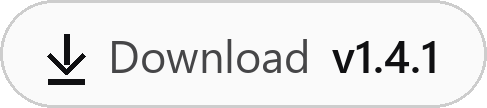
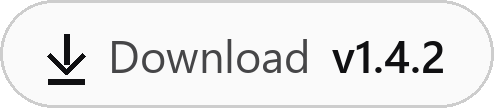
Release PlayBridge 1.4.2: optional FSR 1 upscaling
Settings > Picture has a new switch, FSR 1 upscaling, off by default.
When the screen is larger than the stream, the Direct3D 11 output
enlarges the picture with AMD FidelityFX Super Resolution 1 (EASU),
and Sharpen picture uses its sharpening (RCAS). At the same size or
smaller the output is unchanged. AMD's code is under the MIT license,
included in third-party-licenses/amd-fsr1.

Changed region(s): [[0.2156, 0.3611, 0.924, 0.6944], [0.0924, 0.3333, 0.1848, 0.6944], [0.154, 0.75, 0.1848, 0.7778]]

diff --git a/app/d3d11_presenter.py b/app/d3d11_presenter.py
@@ -31,7 +31,7 @@ class SamplerDesc(Structure):_fields_=[('Filter',UINT),('AddressU',UINT),('Addre
 class Mapped(Structure):_fields_=[('Data',c_void_p),('RowPitch',UINT),('DepthPitch',UINT)]
 class Viewport(Structure):_fields_=[('X',c_float),('Y',c_float),('Width',c_float),('Height',c_float),('MinDepth',c_float),('MaxDepth',c_float)]
 
-BGRA8=87;R8=61;R8G8=49;NV12=103;P010=104;R16=56;R16G16=35
+BGRA8=87;R8=61;R8G8=49;NV12=103;P010=104;R16=56;R16G16=35;RGB10=24
 USAGE_DEFAULT=0;USAGE_DYNAMIC=2;USAGE_STAGING=3
 BIND_CONSTANT=4;BIND_SHADER=8;BIND_TARGET=0x20
 CPU_WRITE=0x10000;CPU_READ=0x20000;MAP_READ=1;MAP_DISCARD=4
@@ -44,6 +44,8 @@ VIEWS={NV12:(R8,R8G8),P010:(R16,R16G16)}
 PLANES={'yuv420p':((R8,1),(R8,2),(R8,2)),'yuvj420p':((R8,1),(R8,2),(R8,2)),'nv12':((R8,1),(R8G8,2))}
 CUBIC,BOX=0,1
 BLACK=(c_float*4)(0,0,0,1)
+# RCAS in stops below its strongest. 0.2 gives it about the strength of the sharpening after bicubic.
+RCAS_STOPS=.2
 
 SHADERS=b"""
 cbuffer Picture:register(b0){float2 size;float2 ratio;float4 rows[3];int luma_filter;int chroma_filter;int interleaved;int unused;};
@@ -84,6 +86,60 @@ float4 sharpen(Pixel p):SV_Target{
  float3 low=min(c,min(n,min(s,min(w,e)))),high=max(c,max(n,max(s,max(w,e))));float3 amount=sqrt(saturate(min(low,1-high)/max(high,.0001)))*-.16;
  return float4(saturate((c+(n+s+w+e)*amount)/(1+4*amount)),1);
 }
+// The colours at the picture's own size, for FSR to enlarge.
+float4 rgb(Pixel p):SV_Target{
+ float2 c=p.at.xy,cc=c/2;float2 d;blue.GetDimensions(d.x,d.y);float y=luma.Load(int3(c,0)).r,u,v;
+ if(interleaved){float2 uv=blue.SampleLevel(smooth,cc/d,0).rg;u=uv.r;v=uv.g;}
+ else{u=blue.SampleLevel(smooth,cc/d,0).r;v=red.SampleLevel(smooth,cc/d,0).r;}
+ float4 pixel=float4(y,u,v,1);return float4(saturate(float3(dot(rows[0],pixel),dot(rows[1],pixel),dot(rows[2],pixel))),1);
+}
+// AMD FidelityFX Super Resolution 1, the 32-bit EASU and RCAS of ffx_fsr1.h v1.20210629.
+// Copyright (c) 2021 Advanced Micro Devices, Inc. MIT licence, in THIRD-PARTY-NOTICES.md.
+cbuffer Scaler:register(b1){float4 con0;float4 con1;float4 con2;float4 con3;float2 origin;float sharpness;float spare;};
+float rcp_low(float a){return asfloat(0x7ef07ebbu-asuint(a));}
+float rcp_medium(float a){float b=asfloat(0x7ef19fffu-asuint(a));return b*(-b*a+2);}
+float rsq_low(float a){return asfloat(0x5f347d74u-(asuint(a)>>1));}
+void easu_tap(inout float3 sum,inout float total,float2 off,float2 dir,float2 len,float lob,float clp,float3 c){
+ float2 v=float2(off.x*dir.x+off.y*dir.y,off.x*-dir.y+off.y*dir.x)*len;float d2=min(v.x*v.x+v.y*v.y,clp);
+ float wb=2./5*d2-1,wa=lob*d2-1;wb*=wb;wa*=wa;wb=25./16*wb-(25./16-1);float w=wb*wa;sum+=c*w;total+=w;
+}
+void easu_set(inout float2 dir,inout float len,float w,float a,float b,float c,float d,float e){
+ float across=rcp_low(max(abs(d-c),abs(c-b))),dx=d-b;dir.x+=dx*w;across=saturate(abs(dx)*across);len+=across*across*w;
+ float down=rcp_low(max(abs(e-c),abs(c-a))),dy=e-a;dir.y+=dy*w;down=saturate(abs(dy)*down);len+=down*down*w;
+}
+// Edge adaptive enlarging, from the picture in luma to the pixel at the same place in the viewport.
+float4 easu(Pixel p):SV_Target{
+ float2 pp=float2(uint2(p.at.xy-origin))*con0.xy+con0.zw,fp=floor(pp);pp-=fp;
+ float2 p0=fp*con1.xy+con1.zw,p1=p0+con2.xy,p2=p0+con2.zw,p3=p0+con3.xy;
+ float4 bczzR=luma.GatherRed(smooth,p0),bczzG=luma.GatherGreen(smooth,p0),bczzB=luma.GatherBlue(smooth,p0);
+ float4 ijfeR=luma.GatherRed(smooth,p1),ijfeG=luma.GatherGreen(smooth,p1),ijfeB=luma.GatherBlue(smooth,p1);
+ float4 klhgR=luma.GatherRed(smooth,p2),klhgG=luma.GatherGreen(smooth,p2),klhgB=luma.GatherBlue(smooth,p2);
+ float4 zzonR=luma.GatherRed(smooth,p3),zzonG=luma.GatherGreen(smooth,p3),zzonB=luma.GatherBlue(smooth,p3);
+ float4 bczzL=bczzB*.5+(bczzR*.5+bczzG),ijfeL=ijfeB*.5+(ijfeR*.5+ijfeG),klhgL=klhgB*.5+(klhgR*.5+klhgG),zzonL=zzonB*.5+(zzonR*.5+zzonG);
+ float bL=bczzL.x,cL=bczzL.y,iL=ijfeL.x,jL=ijfeL.y,fL=ijfeL.z,eL=ijfeL.w,kL=klhgL.x,lL=klhgL.y,hL=klhgL.z,gL=klhgL.w,oL=zzonL.z,nL=zzonL.w;
+ float2 dir=0;float len=0;
+ easu_set(dir,len,(1-pp.x)*(1-pp.y),bL,eL,fL,gL,jL);easu_set(dir,len,pp.x*(1-pp.y),cL,fL,gL,hL,kL);
+ easu_set(dir,len,(1-pp.x)*pp.y,fL,iL,jL,kL,nL);easu_set(dir,len,pp.x*pp.y,gL,jL,kL,lL,oL);
+ float2 dir2=dir*dir;float dirR=dir2.x+dir2.y;bool zro=dirR<1./32768;dirR=rsq_low(dirR);dirR=zro?1:dirR;dir.x=zro?1:dir.x;dir*=dirR;
+ len=len*.5;len*=len;float stretch=(dir.x*dir.x+dir.y*dir.y)*rcp_low(max(abs(dir.x),abs(dir.y)));
+ float2 len2=float2(1+(stretch-1)*len,1-.5*len);float lob=.5+((1./4-.04)-.5)*len,clp=rcp_low(lob);
+ float3 f=float3(ijfeR.z,ijfeG.z,ijfeB.z),g=float3(klhgR.w,klhgG.w,klhgB.w),j=float3(ijfeR.y,ijfeG.y,ijfeB.y),k=float3(klhgR.x,klhgG.x,klhgB.x);
+ float3 low=min(min(f,g),min(j,k)),high=max(max(f,g),max(j,k)),sum=0;float total=0;
+ easu_tap(sum,total,float2(0,-1)-pp,dir,len2,lob,clp,float3(bczzR.x,bczzG.x,bczzB.x));easu_tap(sum,total,float2(1,-1)-pp,dir,len2,lob,clp,float3(bczzR.y,bczzG.y,bczzB.y));
+ easu_tap(sum,total,float2(-1,1)-pp,dir,len2,lob,clp,float3(ijfeR.x,ijfeG.x,ijfeB.x));easu_tap(sum,total,float2(0,1)-pp,dir,len2,lob,clp,j);
+ easu_tap(sum,total,float2(0,0)-pp,dir,len2,lob,clp,f);easu_tap(sum,total,float2(-1,0)-pp,dir,len2,lob,clp,float3(ijfeR.w,ijfeG.w,ijfeB.w));
+ easu_tap(sum,total,float2(1,1)-pp,dir,len2,lob,clp,k);easu_tap(sum,total,float2(2,1)-pp,dir,len2,lob,clp,float3(klhgR.y,klhgG.y,klhgB.y));
+ easu_tap(sum,total,float2(2,0)-pp,dir,len2,lob,clp,float3(klhgR.z,klhgG.z,klhgB.z));easu_tap(sum,total,float2(1,0)-pp,dir,len2,lob,clp,g);
+ easu_tap(sum,total,float2(1,2)-pp,dir,len2,lob,clp,float3(zzonR.z,zzonG.z,zzonB.z));easu_tap(sum,total,float2(0,2)-pp,dir,len2,lob,clp,float3(zzonR.w,zzonG.w,zzonB.w));
+ return float4(min(high,max(low,sum/total)),1);
+}
+// Sharpening as strong as it can be before the cross of neighbours would clip.
+float4 rcas(Pixel p):SV_Target{
+ int3 at=int3(p.at.xy,0);float3 b=luma.Load(at,int2(0,-1)).rgb,d=luma.Load(at,int2(-1,0)).rgb,e=luma.Load(at).rgb,f=luma.Load(at,int2(1,0)).rgb,h=luma.Load(at,int2(0,1)).rgb;
+ float3 low=min(min(b,d),min(f,h)),high=max(max(b,d),max(f,h)),lobes=max(-(min(low,e)/(4*high)),(1-max(high,e))/(4*low-4));
+ float lobe=max(-(.25-1./16),min(max(lobes.r,max(lobes.g,lobes.b)),0))*sharpness;
+ return float4((lobe*(b+d+h+f)+e)*rcp_medium(4*lobe+1),1);
+}
 """
 
 def colour_rows(colorspace,full_range):
@@ -99,6 +155,13 @@ def fitted(width,height,window_width,window_height):
 def luma_filter(ratio):
  # From half size down the area filter keeps the most detail, as it does on the CPU in video_convert.
  return BOX if ratio>=1.999 else CUBIC
+def enlarged(ratio):
+ # FSR only enlarges. At one texel per pixel or smaller the usual filters stay.
+ return ratio<.999
+def easu_constants(width,height,shown_width,shown_height):
+ """AMD's FsrEasuCon for a picture that fills its texture: from a screen pixel to the picture, then the four gathers around it."""
+ across,down=width/shown_width,height/shown_height;x,y=1/width,1/height
+ return (across,down,.5*across-.5,.5*down-.5,x,y,x,-y,-x,2*y,x,2*y,0,4*y,0,0)
 def surface_of(frame):
  """A GPU frame's texture and its slice. The list of planes stops at a zero, and slice zero is one."""
  planes=frame.planes;return planes[0].buffer_ptr,planes[1].buffer_ptr if len(planes)>1 else 0
@@ -123,7 +186,7 @@ def compiled():
  compiler=ctypes.WinDLL('d3dcompiler_47');compile_source=compiler.D3DCompile;compile_source.restype=ctypes.HRESULT
  compile_source.argtypes=[c_char_p,c_size_t,c_char_p,c_void_p,c_void_p,c_char_p,c_char_p,UINT,UINT,OUT,OUT]
  blobs={}
- for name,target in ((b'vs',b'vs_5_0'),(b'ps',b'ps_5_0'),(b'sharpen',b'ps_5_0')):
+ for name,target in ((b'vs',b'vs_5_0'),(b'ps',b'ps_5_0'),(b'sharpen',b'ps_5_0'),(b'rgb',b'ps_5_0'),(b'easu',b'ps_5_0'),(b'rcas',b'ps_5_0')):
   code=c_void_p();errors=c_void_p()
   try:compile_source(SHADERS,len(SHADERS),None,None,None,name,target,1<<15,0,byref(code),byref(errors))
   except OSError as error:raise RuntimeError(ctypes.string_at(GetBlobPointer(errors.value),GetBlobSize(errors.value)).decode(errors='replace') if errors.value else str(error)) from error
@@ -135,24 +198,26 @@ def new_device():
 
 class D3D11Presenter:
  """Draws on the thread of the refresh clock. Only resizing and hiding involve the window's own thread, which never waits for this one."""
- def __init__(self,window,sharpen=False):
-  self.hwnd=window.winfo_id();self.frame=None;self.failed=None;self.failures=0;self.sharpen=sharpen;self.wanted=(max(1,window.winfo_width()),max(1,window.winfo_height()));self.pending=False
+ def __init__(self,window,sharpen=False,fsr=False):
+  self.hwnd=window.winfo_id();self.frame=None;self.failed=None;self.failures=0;self.sharpen=sharpen;self.fsr=fsr;self.wanted=(max(1,window.winfo_width()),max(1,window.winfo_height()));self.pending=False
   self.kernel=ctypes.WinDLL('kernel32');self.kernel.WaitForSingleObject.argtypes=[wintypes.HANDLE,wintypes.DWORD];self.kernel.WaitForSingleObject.restype=wintypes.DWORD
   # Both fail here, in the window's thread, where the app can still choose the other output.
   self.blobs=compiled();self.own=new_device();self.forget()
  def forget(self):
-  self.device=None;self.context=None;self.swap=None;self.target=None;self.back=None;self.scaled=None;self.scaled_view=None;self.size=None;self.waitable=None;self.owned=[];self.surface=None;self.surface_shape=None;self.planes=None;self.plane_shape=None;self.views=None;self.arranged=None;self.viewport=None
+  self.device=None;self.context=None;self.swap=None;self.target=None;self.back=None;self.scaled=None;self.scaled_view=None;self.size=None;self.waitable=None;self.owned=[];self.surface=None;self.surface_shape=None;self.planes=None;self.plane_shape=None;self.views=None;self.arranged=None;self.viewport=None;self.converted=None;self.converted_shape=None;self.enlarging=False
  def keep(self,pointer):
   self.owned.append(pointer.value);return pointer.value
  def attach(self,device):
   """Takes over a reference to the device. A new decoder brings a new device, and the swap chain has to live on the decoder's."""
   self.detach();self.device=device;context=c_void_p();GetImmediateContext(device,byref(context));self.context=context.value
   shader=c_void_p();CreateVertexShader(device,self.blobs[b'vs'],len(self.blobs[b'vs']),None,byref(shader));self.vertex_shader=self.keep(shader)
-  shader=c_void_p();CreatePixelShader(device,self.blobs[b'ps'],len(self.blobs[b'ps']),None,byref(shader));self.pixel_shader=self.keep(shader)
-  shader=c_void_p();CreatePixelShader(device,self.blobs[b'sharpen'],len(self.blobs[b'sharpen']),None,byref(shader));self.sharpen_shader=self.keep(shader)
+  self.shaders={}
+  for name in (b'ps',b'sharpen',b'rgb',b'easu',b'rcas'):shader=c_void_p();CreatePixelShader(device,self.blobs[name],len(self.blobs[name]),None,byref(shader));self.shaders[name]=self.keep(shader)
   sampler=c_void_p();CreateSamplerState(device,byref(SamplerDesc(Filter=FILTER_LINEAR,AddressU=ADDRESS_CLAMP,AddressV=ADDRESS_CLAMP,AddressW=ADDRESS_CLAMP,MaxLOD=1000)),byref(sampler));self.keep(sampler)
-  buffer=c_void_p();CreateBuffer(device,byref(BufferDesc(ByteWidth=96,Usage=USAGE_DYNAMIC,BindFlags=BIND_CONSTANT,CPUAccessFlags=CPU_WRITE)),None,byref(buffer));self.constants=self.keep(buffer)
-  VSSetShader(self.context,self.vertex_shader,None,0);PSSetSamplers(self.context,0,1,byref(sampler));PSSetConstantBuffers(self.context,0,1,byref(buffer));IASetPrimitiveTopology(self.context,TRIANGLES)
+  buffers=[]
+  for size in (96,80):buffer=c_void_p();CreateBuffer(device,byref(BufferDesc(ByteWidth=size,Usage=USAGE_DYNAMIC,BindFlags=BIND_CONSTANT,CPUAccessFlags=CPU_WRITE)),None,byref(buffer));buffers.append(self.keep(buffer))
+  self.constants,self.scaler=buffers
+  VSSetShader(self.context,self.vertex_shader,None,0);PSSetSamplers(self.context,0,1,byref(sampler));PSSetConstantBuffers(self.context,0,2,(c_void_p*2)(*buffers));IASetPrimitiveTopology(self.context,TRIANGLES)
  def detach(self):
   """A window takes one flip swap chain at a time, and the old one goes only once its device has been cleared and flushed."""
   if self.context:
@@ -161,6 +226,7 @@ class D3D11Presenter:
    if self.swap:Release(self.swap)
    if self.surface:self.release_surface()
    if self.planes:self.release_planes()
+   if self.converted:self.release_converted()
    Flush(self.context);Release(self.context)
   if self.device and self.device!=self.own:Release(self.device)
   self.forget()
@@ -222,13 +288,28 @@ class D3D11Presenter:
    else:
     for row in range(rows):ctypes.memmove(mapped.Data+row*mapped.RowPitch,source.buffer_ptr+row*source.line_size,min(source.line_size,mapped.RowPitch))
    Unmap(self.context,texture,0)
+ def release_converted(self):
+  for pointer in self.converted:Release(pointer)
+  self.converted=None;self.converted_shape=None
+ def convert_into(self,width,height):
+  """The texture FSR enlarges from, in RGB at the picture's own size."""
+  if self.converted_shape==(width,height):return
+  if self.converted:self.release_converted()
+  texture=c_void_p();shown=c_void_p();drawn=c_void_p()
+  CreateTexture2D(self.device,byref(Texture2DDesc(Width=width,Height=height,MipLevels=1,ArraySize=1,Format=RGB10,SampleCount=1,BindFlags=BIND_SHADER|BIND_TARGET)),None,byref(texture))
+  CreateRenderTargetView(self.device,texture.value,None,byref(drawn));CreateShaderResourceView(self.device,texture.value,None,byref(shown));Release(texture.value);self.converted=(shown.value,drawn.value);self.converted_shape=(width,height)
+ def fill(self,buffer,data):
+  mapped=Mapped();Map(self.context,buffer,0,MAP_DISCARD,0,byref(mapped));ctypes.memmove(mapped.Data,data,len(data));Unmap(self.context,buffer,0)
  def arrange(self,frame,interleaved):
   """Sets where the picture goes and how it is filtered, when any of that has changed."""
-  key=(frame.width,frame.height,frame.colorspace,frame.color_range,interleaved,self.size)
+  key=(frame.width,frame.height,frame.colorspace,frame.color_range,interleaved,self.size,self.fsr)
   if key==self.arranged:return
   x,y,width,height=fitted(frame.width,frame.height,*self.size);across=frame.width/width;down=frame.height/height;ratio=max(across,down);rows=colour_rows(frame.colorspace,frame.color_range==2)
-  data=struct.pack('<16f4i',frame.width,frame.height,across,down,*rows[0],*rows[1],*rows[2],luma_filter(ratio),int(ratio>2.001),int(interleaved),0)
-  mapped=Mapped();Map(self.context,self.constants,0,MAP_DISCARD,0,byref(mapped));ctypes.memmove(mapped.Data,data,len(data));Unmap(self.context,self.constants,0)
+  self.fill(self.constants,struct.pack('<16f4i',frame.width,frame.height,across,down,*rows[0],*rows[1],*rows[2],luma_filter(ratio),int(ratio>2.001),int(interleaved),0))
+  self.enlarging=self.fsr and enlarged(ratio)
+  if self.enlarging:
+   self.convert_into(frame.width,frame.height);self.source=Viewport(0,0,frame.width,frame.height,0,1)
+   self.fill(self.scaler,struct.pack('<20f',*easu_constants(frame.width,frame.height,width,height),x,y,2**-RCAS_STOPS,0))
   self.viewport=Viewport(x,y,width,height,0,1);self.whole=Viewport(0,0,self.size[0],self.size[1],0,1);self.arranged=key
  def show(self,frame):
   on_gpu=frame.format.name=='d3d11'
@@ -243,11 +324,17 @@ class D3D11Presenter:
   if on_gpu:self.copy_surface(texture,index)
   else:self.upload(frame)
   self.arrange(frame,on_gpu or frame.format.name=='nv12')
-  context=self.context;first=c_void_p(self.scaled if self.sharpen else self.target)
-  OMSetRenderTargets(context,1,byref(first),None);ClearRenderTargetView(context,first,BLACK);RSSetViewports(context,1,byref(self.viewport));PSSetShader(context,self.pixel_shader,None,0);PSSetShaderResources(context,0,3,self.views);Draw(context,3,0)
+  context=self.context;first=c_void_p(self.scaled if self.sharpen else self.target);empty=c_void_p()
+  if self.enlarging:
+   # FSR works on RGB, so the colours are worked out first at the picture's own size, then enlarged.
+   picture,drawn=(c_void_p(pointer) for pointer in self.converted)
+   PSSetShaderResources(context,0,3,self.views);OMSetRenderTargets(context,1,byref(drawn),None);RSSetViewports(context,1,byref(self.source));PSSetShader(context,self.shaders[b'rgb'],None,0);Draw(context,3,0)
+   OMSetRenderTargets(context,1,byref(first),None);ClearRenderTargetView(context,first,BLACK);RSSetViewports(context,1,byref(self.viewport));PSSetShader(context,self.shaders[b'easu'],None,0);PSSetShaderResources(context,0,1,byref(picture));Draw(context,3,0);PSSetShaderResources(context,0,1,byref(empty))
+  else:
+   OMSetRenderTargets(context,1,byref(first),None);ClearRenderTargetView(context,first,BLACK);RSSetViewports(context,1,byref(self.viewport));PSSetShader(context,self.shaders[b'ps'],None,0);PSSetShaderResources(context,0,3,self.views);Draw(context,3,0)
   if self.sharpen:
-   last=c_void_p(self.target);view=c_void_p(self.scaled_view);empty=c_void_p()
-   OMSetRenderTargets(context,1,byref(last),None);RSSetViewports(context,1,byref(self.whole));PSSetShader(context,self.sharpen_shader,None,0);PSSetShaderResources(context,0,1,byref(view));Draw(context,3,0);PSSetShaderResources(context,0,1,byref(empty))
+   last=c_void_p(self.target);view=c_void_p(self.scaled_view)
+   OMSetRenderTargets(context,1,byref(last),None);RSSetViewports(context,1,byref(self.whole));PSSetShader(context,self.shaders[b'rcas' if self.enlarging else b'sharpen'],None,0);PSSetShaderResources(context,0,1,byref(view));Draw(context,3,0);PSSetShaderResources(context,0,1,byref(empty))
   self.present();return True
  def present(self):Present(self.swap,1,0)
  def attempt(self,frame):

diff --git a/tests/test_d3d11_presenter.py b/tests/test_d3d11_presenter.py
@@ -40,6 +40,12 @@ class SumsTests(unittest.TestCase):
   self.assertEqual(d.fitted(3840,2160,1000,1000),(0,219,1000,562));self.assertEqual(d.fitted(3840,2160,3000,1000),(611,0,1777,1000))
  def test_the_area_filter_starts_at_half_size(self):
   self.assertEqual(d.luma_filter(2),d.BOX);self.assertEqual(d.luma_filter(3.5),d.BOX);self.assertEqual(d.luma_filter(1.5),d.CUBIC);self.assertEqual(d.luma_filter(1),d.CUBIC)
+ def test_fsr_only_enlarges(self):
+  self.assertTrue(d.enlarged(.5));self.assertTrue(d.enlarged(.75));self.assertFalse(d.enlarged(1));self.assertFalse(d.enlarged(2))
+ def test_the_easu_constants_follow_amds(self):
+  # 1080p on a 4K screen: a screen pixel is half a texel, and the gathers sit one, two and four texels from the first.
+  c=d.easu_constants(1920,1080,3840,2160);self.assertEqual(c[:4],(.5,.5,-.25,-.25))
+  self.assertEqual([round(value*size,6) for value,size in zip(c[4:14],(1920,1080)*5)],[1,1,1,-1,-1,2,1,2,0,4]);self.assertEqual(c[14:],(0,0))
  def test_slice_zero_leaves_a_single_plane(self):
   self.assertEqual(d.surface_of(SimpleNamespace(planes=[SimpleNamespace(buffer_ptr=77)])),(77,0))
   self.assertEqual(d.surface_of(SimpleNamespace(planes=[SimpleNamespace(buffer_ptr=77),SimpleNamespace(buffer_ptr=5)])),(77,5))
@@ -157,7 +163,7 @@ class DrawingTests(unittest.TestCase):
  @classmethod
  def tearDownClass(cls):
   cls.output.detach();cls.root.destroy()
- def setUp(self):self.output.sharpen=False
+ def setUp(self):self.output.sharpen=False;self.output.fsr=False
  def drawn(self,frame,width=640,height=360):
   self.output.wanted=(width,height)
   for _ in range(5):
@@ -183,6 +189,17 @@ class DrawingTests(unittest.TestCase):
    self.assert_the_colour(self.drawn(frame.reformat(format=name)))
  def test_sharpening_leaves_a_flat_colour_alone(self):
   frames=self.gpu_frames();self.output.sharpen=True;self.assert_the_colour(self.drawn(frames[-1]))
+ def test_fsr_enlarges_a_flat_colour_unchanged(self):
+  frames=self.gpu_frames();self.output.fsr=True;self.output.sharpen=True;picture=self.drawn(frames[-1],1280,720);self.assertTrue(self.output.enlarging);self.assertEqual(picture.shape,(720,1280,3))
+  for got,want in zip(picture[360,640],result_of(d.colour_rows(1,False),Y,U,V)):self.assertAlmostEqual(int(got),want,delta=2)
+ def test_fsr_waits_for_a_picture_to_enlarge(self):
+  self.output.fsr=True;self.drawn(self.gpu_frames()[-1]);self.assertFalse(self.output.enlarging)
+ def test_fsr_enlarges_an_edge_without_ringing(self):
+  # Dark grey on the left and light grey on the right, which bicubic rings around.
+  rows=np.full((540,640),128,np.uint8);rows[:360]=40;rows[:360,320:]=200;edge=av.VideoFrame.from_ndarray(rows,format='yuv420p')
+  self.output.fsr=True;row=self.drawn(edge,1280,720)[360].astype(int);self.assertTrue(self.output.enlarging)
+  dark,light=result_of(d.colour_rows(1,False),40,128,128)[0],result_of(d.colour_rows(1,False),200,128,128)[0]
+  self.assertGreaterEqual(row.min(),dark-2);self.assertLessEqual(row.max(),light+2);self.assertLessEqual(int(((row[:,0]>dark+20)&(row[:,0]<light-20)).sum()),3)
  def test_nothing_old_stays_around_a_smaller_picture(self):
   frames=self.gpu_frames();self.drawn(frames[-1]);picture=self.drawn(frames[-1],640,480)
   self.assertEqual(picture.shape,(480,640,3));self.assertEqual(int(picture[:60].max()),0);self.assertEqual(int(picture[-60:].max()),0);self.assertGreater(int(picture[240,320].max()),0)

diff --git a/app/playbridge_ui.py b/app/playbridge_ui.py
@@ -191,6 +191,11 @@ def run_ui(app):
    def change_sharpen():
     presenter.sharpen=sharpen_on.get();core.save_config(sharpen=sharpen_on.get())
    switch(place,'Sharpen picture',sharpen_on,change_sharpen)
+   fsr_on=ctk.BooleanVar(value=presenter.fsr)
+   def change_fsr():
+    presenter.fsr=fsr_on.get();core.save_config(fsr=fsr_on.get())
+   switch(place,'FSR 1 upscaling',fsr_on,change_fsr)
+   note(place,'When the screen is larger than the picture, such as 1080p on a 1440p or 4K monitor, AMD FidelityFX Super Resolution 1 enlarges it, and Sharpen picture uses its sharpening. Works on any graphics card.')
   # Captures.
   place=card(sections['captures'],'Instant replay')
   replay_lengths={'Off':0,'Last 30 seconds':30,'Last 60 seconds':60,'Last 2 minutes':120}
@@ -382,7 +387,7 @@ def run_ui(app):
   surface=tk.Frame(stage,bg='',width=1,height=1)
   try:
    from d3d11_presenter import D3D11Presenter
-   presenter=D3D11Presenter(surface,core.config().get('sharpen',False));direct=True
+   presenter=D3D11Presenter(surface,core.config().get('sharpen',False),core.config().get('fsr',False));direct=True
   except Exception:surface.destroy();surface=None;app.use_gdi()
  if app.renderer=='gdi':
   from gdi_presenter import GdiPresenter

diff --git a/README.md b/README.md
@@ -1,6 +1,6 @@
 <p align="center"><img src="docs/images/banner.png" alt="PlayBridge: your PS5 games, video and audio on your Windows PC" width="100%"></p>
 <p align="center">
-  <a href="https://github.com/ramalhoboss/PlayBridge/releases/latest"><img alt="Download v1.4.1" src="docs/images/badge-download.png" height="36"></a>
+  <a href="https://github.com/ramalhoboss/PlayBridge/releases/latest"><img alt="Download v1.4.2" src="docs/images/badge-download.png" height="36"></a>
   <img alt="Windows x64" src="docs/images/badge-windows.png" height="36">
   <img alt="PS5 firmware 13.60" src="docs/images/badge-ps5.png" height="36">
   <img alt="Up to 4K60" src="docs/images/badge-4k.png" height="36">
@@ -20,6 +20,11 @@ No HDMI capture card. No official Remote Play client or PSN Remote Play pairing.
 <p align="center"><img src="docs/images/playbridge-games.jpg" alt="PlayBridge Games page with a row of game covers, the selected game's art filling the window, its title, a Play button and cards for play time, size, a 4K 60 fps stream and console temperature" width="100%"></p>
 
 > Screenshots show the real application. The Games page above shows a real PS5 library: covers and music come from your own console when you connect, and none are included in the download. The game pictures further down are PS5 captures saved with PlayBridge. PlayBridge is in English; the console's own language remains whatever you selected on the PS5.
+
+## New in v1.4.2
+
+- **FSR 1 upscaling:** a new switch in **Settings → Picture**, off by default. When your screen is larger than the stream, such as a 1080p stream on a 1440p or 4K monitor, AMD FidelityFX Super Resolution 1 enlarges the picture along its edges, and **Sharpen picture** uses FSR's own sharpening. It works with the GPU video output on any graphics card.
+- Includes the v1.4.1 fix: the IP address you type in Settings is the one PlayBridge uses. The payload is the same as in v1.4.0.
 
 ## New in v1.4.1
 
@@ -46,14 +51,14 @@ Automatic mode includes the updated payload. Manual users should load the v1.4.0
 
 | File | What it contains |
 |---|---|
-| [PlayBridge.exe](https://github.com/ramalhoboss/PlayBridge/releases/download/v1.4.1/PlayBridge.exe) | Portable Windows application, including Python dependencies and the embedded ELF. |
-| [PlayBridge.elf](https://github.com/ramalhoboss/PlayBridge/releases/download/v1.4.1/PlayBridge.elf) | Standalone PS5 payload for manual loading. |
-| [PlayBridge-Windows-v1.4.1.zip](https://github.com/ramalhoboss/PlayBridge/releases/download/v1.4.1/PlayBridge-Windows-v1.4.1.zip) | Windows EXE and quick-start instructions. |
-| [PlayBridge-Payload-v1.4.1.zip](https://github.com/ramalhoboss/PlayBridge/releases/download/v1.4.1/PlayBridge-Payload-v1.4.1.zip) | ELF and manual-mode instructions. |
-| [PlayBridge-Complete-v1.4.1.zip](https://github.com/ramalhoboss/PlayBridge/releases/download/v1.4.1/PlayBridge-Complete-v1.4.1.zip) | Both files, quick-start instructions and component notices. |
-| [Third-party-licenses.zip](https://github.com/ramalhoboss/PlayBridge/releases/download/v1.4.1/Third-party-licenses.zip) | Component notices for standalone downloads. |
-| [PlayBridge-Source-v1.4.1.zip](https://github.com/ramalhoboss/PlayBridge/releases/download/v1.4.1/PlayBridge-Source-v1.4.1.zip) | Application and payload source, assets, tests and build instructions. |
-| [SHA256SUMS.txt](https://github.com/ramalhoboss/PlayBridge/releases/download/v1.4.1/SHA256SUMS.txt) | Checksums for the release downloads. |
+| [PlayBridge.exe](https://github.com/ramalhoboss/PlayBridge/releases/download/v1.4.2/PlayBridge.exe) | Portable Windows application, including Python dependencies and the embedded ELF. |
+| [PlayBridge.elf](https://github.com/ramalhoboss/PlayBridge/releases/download/v1.4.2/PlayBridge.elf) | Standalone PS5 payload for manual loading. |
+| [PlayBridge-Windows-v1.4.2.zip](https://github.com/ramalhoboss/PlayBridge/releases/download/v1.4.2/PlayBridge-Windows-v1.4.2.zip) | Windows EXE and quick-start instructions. |
+| [PlayBridge-Payload-v1.4.2.zip](https://github.com/ramalhoboss/PlayBridge/releases/download/v1.4.2/PlayBridge-Payload-v1.4.2.zip) | ELF and manual-mode instructions. |
+| [PlayBridge-Complete-v1.4.2.zip](https://github.com/ramalhoboss/PlayBridge/releases/download/v1.4.2/PlayBridge-Complete-v1.4.2.zip) | Both files, quick-start instructions and component notices. |
+| [Third-party-licenses.zip](https://github.com/ramalhoboss/PlayBridge/releases/download/v1.4.2/Third-party-licenses.zip) | Component notices for standalone downloads. |
+| [PlayBridge-Source-v1.4.2.zip](https://github.com/ramalhoboss/PlayBridge/releases/download/v1.4.2/PlayBridge-Source-v1.4.2.zip) | Application and payload source, assets, tests and build instructions. |
+| [SHA256SUMS.txt](https://github.com/ramalhoboss/PlayBridge/releases/download/v1.4.2/SHA256SUMS.txt) | Checksums for the release downloads. |
 
 Download the release assets above to run the application. To inspect or build it, browse [app/](app/), [payload/](payload/) and [tools/](tools/), or download the source archive. GitHub's source archives contain source files, not the Windows EXE.
 
@@ -191,7 +196,7 @@ The standalone ELF waits for one viewer per execution. After ending a manual ses
 | Gaming Mode | Your games fullscreen on the PC; when the console's menu comes to the front, the PC shows your games instead. |
 | Console status | The game in front, CPU and SoC temperature, and whether a console found on the network is resting. |
 | Power | Rest mode, soft reset (close and relaunch the game), and reboot and turn off (not yet tested on a console). Each asks first. |
-| Presentation | **Direct3D 11** by default: the GPU decodes the video, converts its colour, scales it and presents it, with optional sharpening. Windows **GDI** remains as the automatic fallback and as a switch in Settings. Both show one frame per monitor refresh from a short queue, and skip frames rather than letting the delay grow. |
+| Presentation | **Direct3D 11** by default: the GPU decodes the video, converts its colour, scales it and presents it, with optional sharpening and optional AMD FSR 1 upscaling when the screen is larger than the stream. Windows **GDI** remains as the automatic fallback and as a switch in Settings. Both show one frame per monitor refresh from a short queue, and skip frames rather than letting the delay grow. |
 | Decoding | Separate from the network thread, so a slow decoder drops video until the next keyframe instead of stalling audio or the connection. Software decoding uses frame threads above 1080p. |
 | Audio buffering | Bounded PCM queue; if it exceeds approximately **60 ms**, it is trimmed toward **40 ms**. Above 1080p these limits are **160 ms** and **120 ms**. |
 | Window modes | Resizable window, fullscreen, centered image and preserved aspect ratio. Black bars can appear when the available area is not 16:9. |
@@ -315,6 +320,7 @@ These are **PC pipeline measurements**, not total HDMI-to-PC latency, controller
 | A 4K profile gives 1080p | The PS5's video output is lower than the profile. Check the line at the bottom of the window, the PS5's Resolution setting, the display and the HDMI cable. |
 | No picture on the TV at 2160p | Try an HDMI cable rated for 4K at 60 Hz. |
 | 4K does not look sharp on my PC | A 1080p monitor shows the stream scaled down. Try **Sharpen picture**, or open a screenshot or recording to see the full size. |
+| 1080p looks soft on a 1440p or 4K monitor | Turn on **Settings → Picture → FSR 1 upscaling**, and **Sharpen picture** for its sharpening. It needs the GPU video output. |
 | Stutter at high profiles | Try a lower bitrate, use Ethernet and close heavy programs. Check the session panel: a game at 30 fps will not look like 60. |
 | F10 says instant replay is off | Choose a length in **Settings → Captures → Instant replay**. |
 | Manual mode times out | Reload the ELF, then connect within 60 seconds. |
@@ -330,6 +336,7 @@ Preferences, the game library and local diagnostic files are stored in <code>%LO
 
 ## Release history
 
+- **v1.4.2:** optional AMD FSR 1 upscaling on the GPU video output, for screens larger than the stream.
 - **v1.4.1:** an IP address typed in Settings is always used, and connection errors name the address tried and any PS5 that answered elsewhere.
 - **v1.4.0:** Games page with Play, Resume and Close, Gaming Mode, Direct3D 11 output with GPU decoding, instant replay, a new one-window design, console status and power, a steadier refresh clock, sharper scaling, encoder recovery and firmware-aware discovery.
 - **v1.3.0:** experimental 1440p and 4K, refresh-paced presentation, larger encoder frame budget, flicker fix, black and gold desktop, capture library with thumbnails, stats panel, console discovery, favourites and diagnostics export.

diff --git a/docs/GAMING-DESKTOP.md b/docs/GAMING-DESKTOP.md
@@ -7,7 +7,7 @@ One window holds every page. The top bar has **Games**, **Live** and **Media** o
 - **Games** lists the games installed on the PS5, read through the payload's control port during a session. Each game shows its cover, title, when it was last played and for how long, and its size. The selected game's art fills the page, and four cards show your time, its size on the PS5, the stream and the console's temperature. **Play** launches the game and switches to **Live** when its picture arrives; **Resume** returns to a game that is already running. The **⋯** button closes the running game, refreshes the library or opens the Live view. Covers and music are saved on the PC, so the page opens quickly next time.
 - **Live** shows the stream, with capture, replay, session and audio controls below it.
 - **Media** lists local photos and MP4 recordings. They can be filtered, paged, refreshed and opened in the system's default app. Thumbnails are read in a background worker, and a recording's thumbnail is a still from a quarter of the way in. It lists up to 120 newest captures from the app's Screenshots and Recordings folders. Empty files, symbolic links and unfinished .partial.mp4 recordings are excluded.
-- **Settings** has five sections: **Console** (address, Find console, favourites, connection and power), **Picture** (quality profile, performance stats, GPU video output and sharpening), **Captures** (instant replay, capture folder and diagnostics export), **Sound** (the library's music, navigation sounds and their volume) and **Appearance** (Gaming Mode and animations).
+- **Settings** has five sections: **Console** (address, Find console, favourites, connection and power), **Picture** (quality profile, performance stats, GPU video output, sharpening and FSR 1 upscaling), **Captures** (instant replay, capture folder and diagnostics export), **Sound** (the library's music, navigation sounds and their volume) and **Appearance** (Gaming Mode and animations).
 
 The **session panel** (**Ctrl+I**) sits beside any page. It shows the frame rate, the source size, the PC's time from receiving a frame to presenting it, the game on the console with its close and power buttons, the received bitrate for the last 60 seconds, the audio buffer and the recording state. Missing measurements remain blank. PC timings are not end-to-end console latency.
 

diff --git a/CHANGELOG.md b/CHANGELOG.md
@@ -1,5 +1,11 @@
 # Changelog
 
+## v1.4.2 — 2026-11-04
+- FSR 1 upscaling, a switch in Settings → Picture, off by default. When the screen is larger than the stream, the GPU video output enlarges the picture with AMD FidelityFX Super Resolution 1 (EASU), and Sharpen picture uses its sharpening (RCAS). The colour is converted at the stream's own size first, because FSR works in RGB. At the same size or smaller, the output is unchanged.
+- On the owner's RX 6600, enlarging 1080p to 4K took about 3.0 ms of GPU time per frame against 3.6 ms with the previous bicubic scaling, and 3.5 against 4.0 ms with sharpening. On PS5 captures reduced to 1080p and enlarged again, the result measured about the same as before, with slightly cleaner text edges. It has not yet been compared on a live PS5 stream.
+- AMD's FSR 1 code is under the MIT license, included in third-party-licenses/amd-fsr1.
+- The payload is unchanged from v1.4.0.
+
 ## v1.4.1 — 2026-11-04
 - An IP address typed in Settings is always the one PlayBridge uses. In v1.4.0, when nothing answered at the saved address and exactly one PS5 answered the network search, PlayBridge switched to that console and saved its address over the typed one, so a wrong or test address still connected to the console on the network.
 - PlayBridge still finds the console by itself while no address has been typed, and still follows it to a new address given by the router. Installs from v1.4.0 keep that behaviour until an address is typed.

diff --git a/THIRD-PARTY-NOTICES.md b/THIRD-PARTY-NOTICES.md
@@ -14,6 +14,9 @@ PlayBridge bundles components that retain their own copyright and license terms.
 | CFFI | 2.1.1 | https://github.com/python-cffi/cffi |
 | darkdetect | 0.8.0 | https://github.com/albertosottile/darkdetect |
 | PyInstaller bootloader | 6.22.3 | https://github.com/pyinstaller/pyinstaller |
+| AMD FidelityFX Super Resolution 1 (EASU and RCAS, ported to the app's shaders) | 1.20210629 | https://github.com/GPUOpen-Effects/FidelityFX-FSR |
+
+The FSR 1 shaders in `app/d3d11_presenter.py` are a port of AMD's code, under the MIT license in [third-party-licenses/amd-fsr1/license.txt](third-party-licenses/amd-fsr1/license.txt).
 
 The bundled libavutil reports **LGPL version 3 or later**. Its build also includes external codec libraries; those libraries have separate licenses. Do not infer the licensing of every bundled DLL from libavutil's reported string. PyAV's wheel build sources are available from the PyAV project; consult upstream build information for the corresponding FFmpeg and external-library sources.
 
